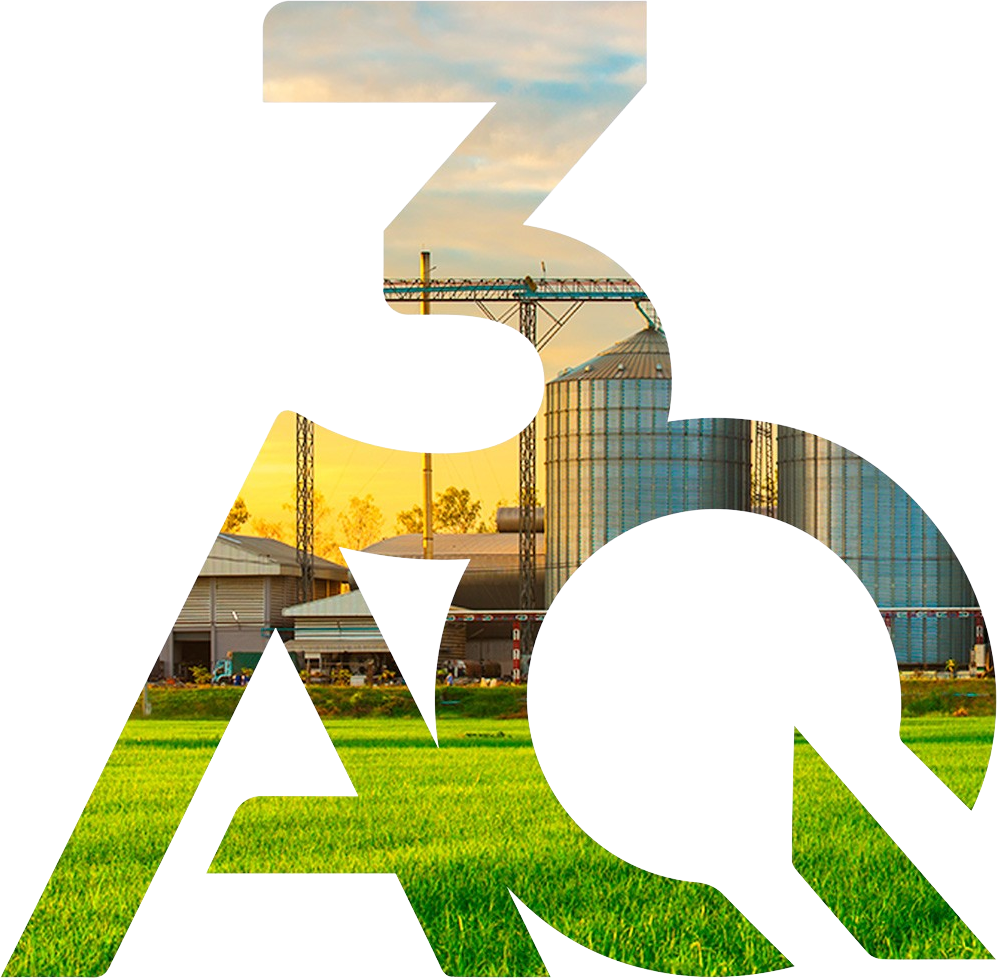
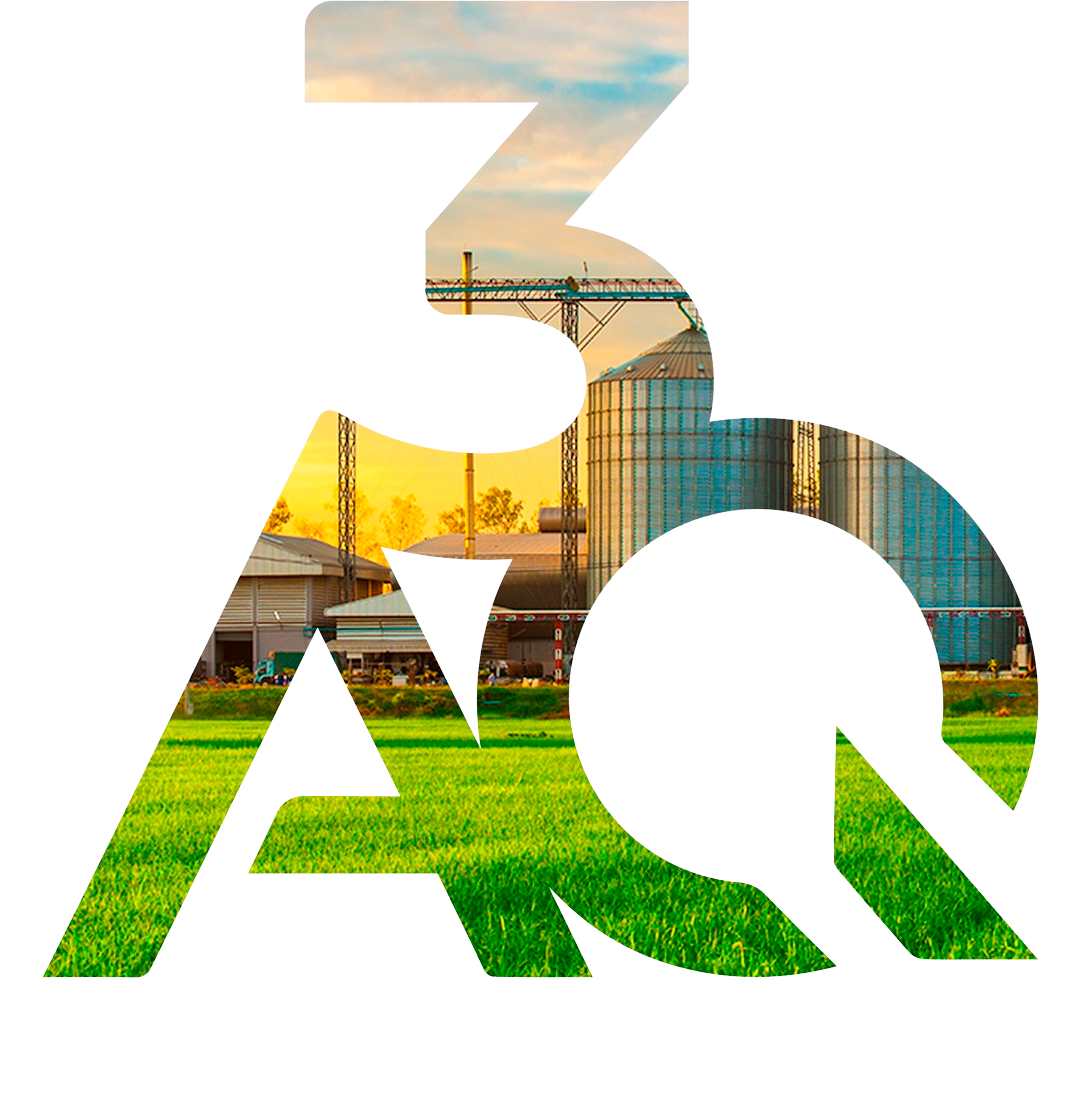
new front site

diff --git a/index.html b/index.html
@@ -33,9 +33,9 @@
 
 <body>
   <header id="header" class="fixed-top">
-    <div class="container d-flex align-items-center justify-content-between">
+    <div class="container d-flex header-container container-fluid px-lg-4 justify-content-between">
 
-      <a href="index.html" class="logo"><img src="assets/img/logo.png" alt="3AQ" class="img-fluid"></a>
+      <a href="index.html" class="logo"><img src="assets/img/logo-white.png" alt="3AQ" class="img-fluid"></a>
 
       <nav id="navbar" class="navbar">
         <ul>
@@ -93,6 +93,7 @@
           <li><a class="nav-link scrollto" href="#contact">Contato</a></li>
           <li><a href="https://www.instagram.com/3aqprodutosquimicos" class="social-links-header instagram  nav-link scrollto"><i class="bx bxl-instagram sc-size"></i></a></li>
           <li><a href="https://www.linkedin.com/company/3aq-produtos-quimicos" class="social-links-header linkedin nav-link scrollto"><i class="bx bxl-linkedin sc-size"></i></a></li>
+          <li><a href="https://api.whatsapp.com/send?phone=16988184251" class="social-links-header whatsapp nav-link scrollto"><i class="bx bxl-whatsapp sc-size"></i></a></li>
         </ul>
         <i class="bi bi-list mobile-nav-toggle"></i>
       </nav>
@@ -104,8 +105,7 @@
     <div class="container position-relative" data-aos="fade-up" data-aos-delay="30">
       <div class="row justify-content-center">
         <div class="col-xl-10 col-lg-10 text-center">
-            <img src="assets/img/3aq.png" alt="3AQ" class=" img-3aq">
-          <h1><b class="text-3aq">Produtos Químicos</b></h1>
+            <img src="assets/img/3aq.png" alt="3AQ" class="img-3aq">
         </div>
         <!-- <div class="col-xl-10 col-lg-10 text-center">
           <h2>Unimos conhecimento sólido em produtos químicos ao compromisso com a qualidade, fornecendo soluções para a produção de açúcar e etanol no agronegócio.</h2>

diff --git a/assets/css/style.css b/assets/css/style.css
@@ -92,8 +92,8 @@ h6 {
 }
 
 .img-3aq {
-  width: 50%;
-  padding: 25px;
+  width: 70%;
+  padding: 20px;
 }
 
 .text-3aq {
@@ -141,33 +141,34 @@ h6 {
 --------------------------------------------------------------*/
 #header {
   transition: all 0.5s;
-  background: #fff;
+  /* background: #fff; */
   z-index: 997;
   padding: 15px 0;
-  border-bottom: 1px solid #e6f2fb;
+  border-bottom: 1px solid transparent;
 }
 
 #header.header-scrolled {
-  border-color: #fff;
+  background: rgba(48, 54, 49, 0.795);
+  /* border-color: #fff; */
   box-shadow: 0px 2px 15px rgba(18, 66, 101, 0.08);
 }
 
 #header .logo {
-  font-size: 28px;
+  font-size: 35px;
   margin: 0;
   padding: 0;
   line-height: 1;
   font-weight: 300;
   letter-spacing: 0.5px;
-  font-family: "Montserrat", sans-serif;
+  font-family: "Montserrat", sans-serif; 
 }
 
 #header .logo a {
-  color: #00B0B6;
+  color: #00B0B6; 
 }
 
 #header .logo img {
-  max-height: 58px;
+  max-height: 85px;
 }
 
 @media (max-width: 992px) {
@@ -198,8 +199,8 @@ h6 {
   align-items: center;
   justify-content: space-between;
   padding: 10px 0 10px 30px;
-  font-size: 16px;
-  color: #00738E;
+  font-size: 21px;
+  color: #fff;
   white-space: nowrap;
   transition: 0.3s;
 }
@@ -215,7 +216,7 @@ h6 {
 .navbar .active,
 .navbar .active:focus,
 .navbar li:hover>a {
-  color: #00738E;
+  color: #00B0B6;
   font-weight: bold;
 }
 
@@ -415,7 +416,7 @@ h6 {
 
 #home:before {
   content: "";
-  background: rgba(255, 255, 255, 0.795);
+  background: rgba(73, 82, 75, 0.795);
   position: absolute;
   bottom: 0;
   top: 0;
@@ -432,7 +433,7 @@ h6 {
   font-size: 54px;
   font-weight: 700;
   line-height: 72px;
-  color: #00738e;
+  color: #ffffff;
   font-family: "Montserrat", sans-serif;
 }
 
